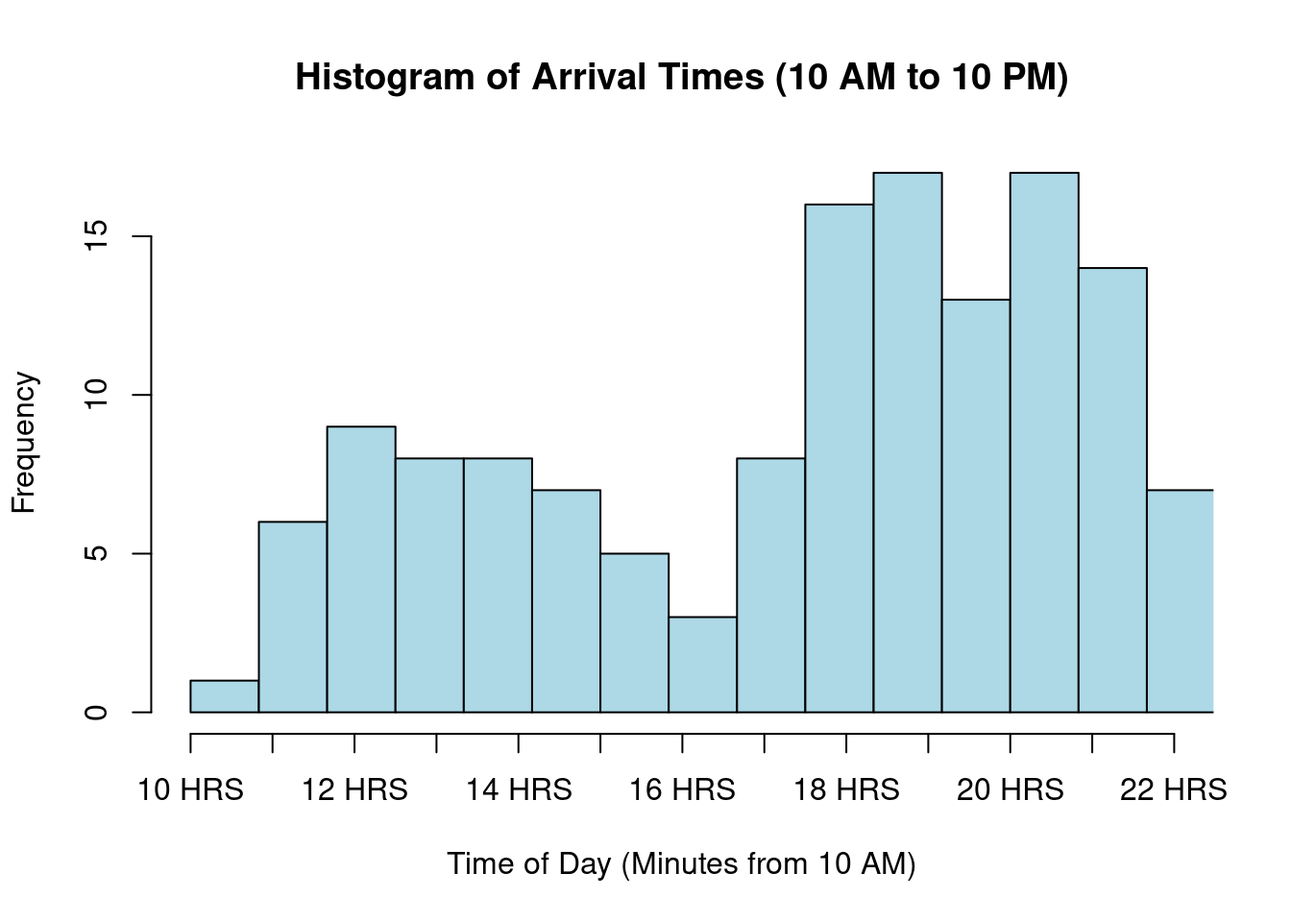
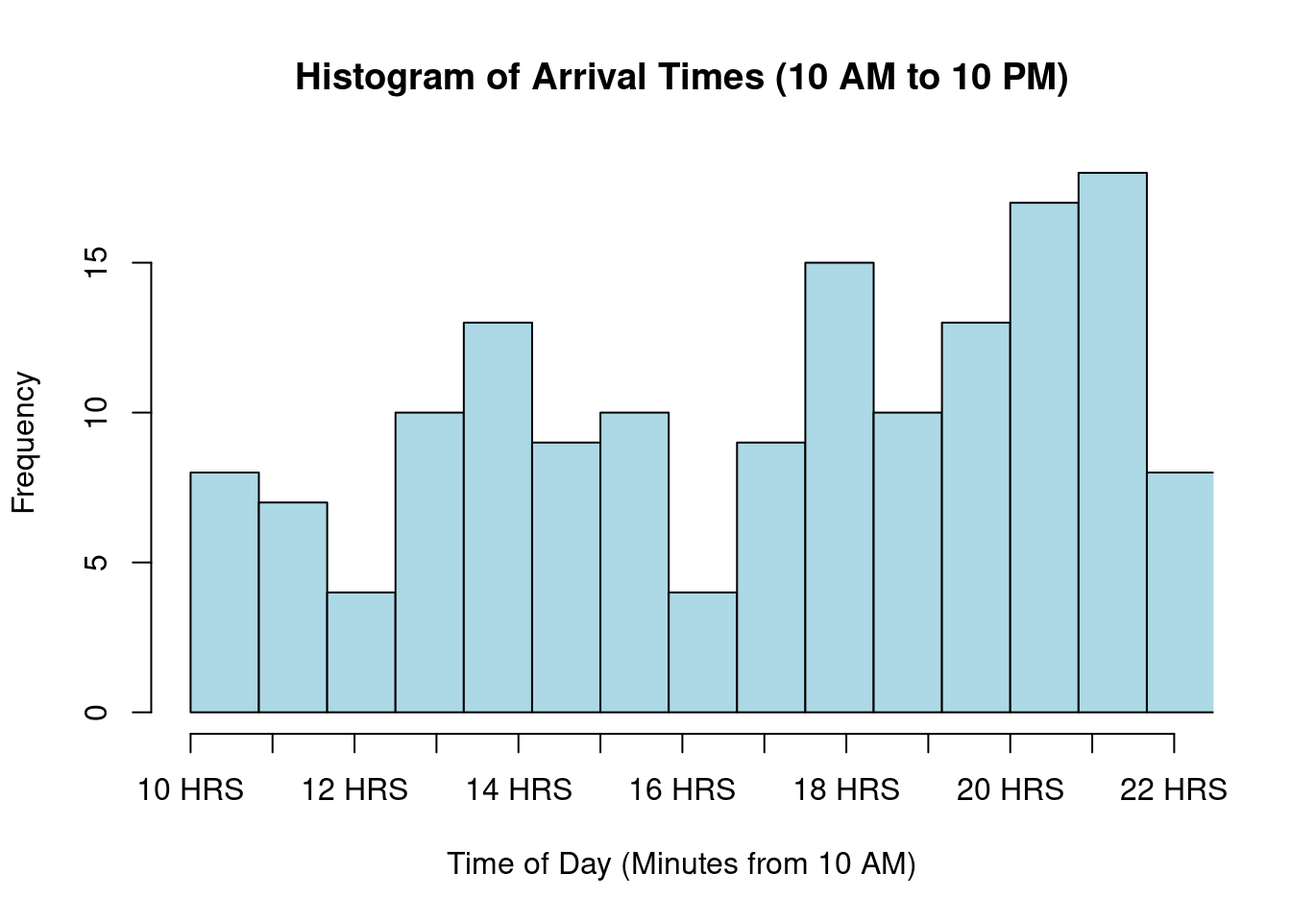
scenario 3 wait time

diff --git a/scenario3.html b/scenario3.html
@@ -81,11 +81,11 @@ pre > code.sourceCode > span > a:first-child::before { text-decoration: underlin
 
 
 <div class="cell">
-<div class="sourceCode cell-code" id="cb1"><pre class="sourceCode r code-with-copy"><code class="sourceCode r"><span id="cb1-1"><a href="#cb1-1" aria-hidden="true" tabindex="-1"></a><span class="fu">set.seed</span>(<span class="dv">123</span>)</span>
+<div class="sourceCode cell-code" id="cb1"><pre class="sourceCode r code-with-copy"><code class="sourceCode r"><span id="cb1-1"><a href="#cb1-1" aria-hidden="true" tabindex="-1"></a><span class="fu">set.seed</span>(<span class="dv">111</span>)</span>
 <span id="cb1-2"><a href="#cb1-2" aria-hidden="true" tabindex="-1"></a></span>
 <span id="cb1-3"><a href="#cb1-3" aria-hidden="true" tabindex="-1"></a>time_intervals <span class="ot">&lt;-</span> <span class="fu">c</span>(<span class="dv">0</span>, <span class="dv">120</span>, <span class="dv">300</span>, <span class="dv">420</span>, <span class="dv">720</span>)</span>
-<span id="cb1-4"><a href="#cb1-4" aria-hidden="true" tabindex="-1"></a>arrival_rates <span class="ot">&lt;-</span> <span class="fu">c</span>(<span class="dv">7</span>, <span class="dv">12</span>, <span class="dv">7</span>, <span class="dv">17</span>)</span>
-<span id="cb1-5"><a href="#cb1-5" aria-hidden="true" tabindex="-1"></a>service_rates <span class="ot">&lt;-</span> <span class="fu">c</span>(<span class="dv">3</span>, <span class="dv">3</span>, <span class="dv">3</span>, <span class="dv">3</span>, <span class="dv">3</span>, <span class="dv">3</span>, <span class="dv">3</span>, <span class="dv">5</span>, <span class="dv">5</span>, <span class="dv">5</span>, <span class="dv">5</span>, <span class="dv">5</span>)</span>
+<span id="cb1-4"><a href="#cb1-4" aria-hidden="true" tabindex="-1"></a>arrival_rates <span class="ot">&lt;-</span> <span class="fu">c</span>(<span class="dv">8</span>, <span class="dv">13</span>, <span class="dv">8</span>, <span class="dv">17</span>)</span>
+<span id="cb1-5"><a href="#cb1-5" aria-hidden="true" tabindex="-1"></a>service_rates <span class="ot">&lt;-</span> <span class="fu">c</span>(<span class="dv">4</span>, <span class="dv">4</span>, <span class="dv">4</span>, <span class="dv">4</span>, <span class="dv">4</span>, <span class="dv">4</span>, <span class="dv">4</span>, <span class="dv">6</span>, <span class="dv">6</span>, <span class="dv">6</span>, <span class="dv">6</span>, <span class="dv">6</span>)</span>
 <span id="cb1-6"><a href="#cb1-6" aria-hidden="true" tabindex="-1"></a>n_tables <span class="ot">&lt;-</span> <span class="dv">5</span></span>
 <span id="cb1-7"><a href="#cb1-7" aria-hidden="true" tabindex="-1"></a></span>
 <span id="cb1-8"><a href="#cb1-8" aria-hidden="true" tabindex="-1"></a><span class="co">#exponential rv</span></span>
@@ -142,24 +142,24 @@ pre > code.sourceCode > span > a:first-child::before { text-decoration: underlin
 <div class="sourceCode cell-code" id="cb3"><pre class="sourceCode r code-with-copy"><code class="sourceCode r"><span id="cb3-1"><a href="#cb3-1" aria-hidden="true" tabindex="-1"></a>current_time <span class="ot">&lt;-</span> <span class="dv">0</span></span>
 <span id="cb3-2"><a href="#cb3-2" aria-hidden="true" tabindex="-1"></a>downtime <span class="ot">&lt;-</span> <span class="dv">0</span></span>
 <span id="cb3-3"><a href="#cb3-3" aria-hidden="true" tabindex="-1"></a>queue <span class="ot">&lt;-</span> <span class="fu">c</span>()</span>
-<span id="cb3-4"><a href="#cb3-4" aria-hidden="true" tabindex="-1"></a>queue_lengths <span class="ot">&lt;-</span> <span class="fu">c</span>() </span>
+<span id="cb3-4"><a href="#cb3-4" aria-hidden="true" tabindex="-1"></a>queue_lengths <span class="ot">&lt;-</span> <span class="fu">c</span>()</span>
 <span id="cb3-5"><a href="#cb3-5" aria-hidden="true" tabindex="-1"></a>busy_tables <span class="ot">&lt;-</span> <span class="fu">rep</span>(<span class="dv">0</span>, n_tables)</span>
 <span id="cb3-6"><a href="#cb3-6" aria-hidden="true" tabindex="-1"></a>waiting_times <span class="ot">&lt;-</span> <span class="fu">c</span>()</span>
 <span id="cb3-7"><a href="#cb3-7" aria-hidden="true" tabindex="-1"></a></span>
-<span id="cb3-8"><a href="#cb3-8" aria-hidden="true" tabindex="-1"></a></span>
-<span id="cb3-9"><a href="#cb3-9" aria-hidden="true" tabindex="-1"></a><span class="cf">for</span> (i <span class="cf">in</span> <span class="fu">seq_along</span>(arrival_times)) {</span>
-<span id="cb3-10"><a href="#cb3-10" aria-hidden="true" tabindex="-1"></a>  next_arrival <span class="ot">&lt;-</span> arrival_times[i]</span>
-<span id="cb3-11"><a href="#cb3-11" aria-hidden="true" tabindex="-1"></a>  <span class="cf">if</span> (<span class="fu">all</span>(busy_tables <span class="sc">==</span> <span class="dv">0</span>) <span class="sc">&amp;&amp;</span> current_time <span class="sc">&lt;</span> next_arrival) {</span>
-<span id="cb3-12"><a href="#cb3-12" aria-hidden="true" tabindex="-1"></a>    downtime <span class="ot">&lt;-</span> downtime <span class="sc">+</span> (next_arrival <span class="sc">-</span> current_time)</span>
-<span id="cb3-13"><a href="#cb3-13" aria-hidden="true" tabindex="-1"></a>    <span class="fu">print</span>(<span class="fu">paste</span>(<span class="st">"Downtime:"</span>, downtime))</span>
-<span id="cb3-14"><a href="#cb3-14" aria-hidden="true" tabindex="-1"></a>  }</span>
-<span id="cb3-15"><a href="#cb3-15" aria-hidden="true" tabindex="-1"></a>  current_time <span class="ot">&lt;-</span> next_arrival</span>
-<span id="cb3-16"><a href="#cb3-16" aria-hidden="true" tabindex="-1"></a>  busy_tables[busy_tables <span class="sc">&lt;=</span> current_time] <span class="ot">&lt;-</span> <span class="dv">0</span></span>
-<span id="cb3-17"><a href="#cb3-17" aria-hidden="true" tabindex="-1"></a>  <span class="cf">if</span> (<span class="fu">any</span>(busy_tables <span class="sc">==</span> <span class="dv">0</span>)) {</span>
-<span id="cb3-18"><a href="#cb3-18" aria-hidden="true" tabindex="-1"></a>    next_table <span class="ot">&lt;-</span> <span class="fu">which</span>(busy_tables <span class="sc">==</span> <span class="dv">0</span>)[<span class="dv">1</span>]</span>
-<span id="cb3-19"><a href="#cb3-19" aria-hidden="true" tabindex="-1"></a>    service_time <span class="ot">&lt;-</span> service_times[i]</span>
-<span id="cb3-20"><a href="#cb3-20" aria-hidden="true" tabindex="-1"></a>    busy_tables[next_table] <span class="ot">&lt;-</span> current_time <span class="sc">+</span> service_time</span>
-<span id="cb3-21"><a href="#cb3-21" aria-hidden="true" tabindex="-1"></a>    <span class="fu">print</span>(<span class="fu">paste</span>(<span class="st">"Seating customer at table"</span>, next_table, <span class="st">"at time:"</span>, current_time, <span class="st">"for service time:"</span>, service_time))</span>
+<span id="cb3-8"><a href="#cb3-8" aria-hidden="true" tabindex="-1"></a><span class="cf">for</span> (i <span class="cf">in</span> <span class="fu">seq_along</span>(arrival_times)) {</span>
+<span id="cb3-9"><a href="#cb3-9" aria-hidden="true" tabindex="-1"></a>  next_arrival <span class="ot">&lt;-</span> arrival_times[i]</span>
+<span id="cb3-10"><a href="#cb3-10" aria-hidden="true" tabindex="-1"></a>  <span class="cf">if</span> (<span class="fu">all</span>(busy_tables <span class="sc">==</span> <span class="dv">0</span>) <span class="sc">&amp;&amp;</span> current_time <span class="sc">&lt;</span> next_arrival) {</span>
+<span id="cb3-11"><a href="#cb3-11" aria-hidden="true" tabindex="-1"></a>    downtime <span class="ot">&lt;-</span> downtime <span class="sc">+</span> (next_arrival <span class="sc">-</span> current_time)</span>
+<span id="cb3-12"><a href="#cb3-12" aria-hidden="true" tabindex="-1"></a>    <span class="fu">print</span>(<span class="fu">paste</span>(<span class="st">"Downtime:"</span>, downtime))</span>
+<span id="cb3-13"><a href="#cb3-13" aria-hidden="true" tabindex="-1"></a>  }</span>
+<span id="cb3-14"><a href="#cb3-14" aria-hidden="true" tabindex="-1"></a>  current_time <span class="ot">&lt;-</span> next_arrival</span>
+<span id="cb3-15"><a href="#cb3-15" aria-hidden="true" tabindex="-1"></a>  busy_tables[busy_tables <span class="sc">&lt;=</span> current_time] <span class="ot">&lt;-</span> <span class="dv">0</span></span>
+<span id="cb3-16"><a href="#cb3-16" aria-hidden="true" tabindex="-1"></a>  <span class="cf">if</span> (<span class="fu">any</span>(busy_tables <span class="sc">==</span> <span class="dv">0</span>)) {</span>
+<span id="cb3-17"><a href="#cb3-17" aria-hidden="true" tabindex="-1"></a>    next_table <span class="ot">&lt;-</span> <span class="fu">which</span>(busy_tables <span class="sc">==</span> <span class="dv">0</span>)[<span class="dv">1</span>]</span>
+<span id="cb3-18"><a href="#cb3-18" aria-hidden="true" tabindex="-1"></a>    service_time <span class="ot">&lt;-</span> service_times[i]</span>
+<span id="cb3-19"><a href="#cb3-19" aria-hidden="true" tabindex="-1"></a>    busy_tables[next_table] <span class="ot">&lt;-</span> current_time <span class="sc">+</span> service_time</span>
+<span id="cb3-20"><a href="#cb3-20" aria-hidden="true" tabindex="-1"></a>    <span class="fu">print</span>(<span class="fu">paste</span>(<span class="st">"Seating customer at table"</span>, next_table, <span class="st">"at time:"</span>, current_time, <span class="st">"for service time:"</span>, service_time))</span>
+<span id="cb3-21"><a href="#cb3-21" aria-hidden="true" tabindex="-1"></a>    waiting_times <span class="ot">&lt;-</span> <span class="fu">c</span>(waiting_times, <span class="dv">0</span>)</span>
 <span id="cb3-22"><a href="#cb3-22" aria-hidden="true" tabindex="-1"></a>  } <span class="cf">else</span> {</span>
 <span id="cb3-23"><a href="#cb3-23" aria-hidden="true" tabindex="-1"></a>    queue <span class="ot">&lt;-</span> <span class="fu">c</span>(queue, current_time)</span>
 <span id="cb3-24"><a href="#cb3-24" aria-hidden="true" tabindex="-1"></a>  }</span>
@@ -175,130 +175,127 @@ pre > code.sourceCode > span > a:first-child::before { text-decoration: underlin
 <span id="cb3-34"><a href="#cb3-34" aria-hidden="true" tabindex="-1"></a>  }</span>
 <span id="cb3-35"><a href="#cb3-35" aria-hidden="true" tabindex="-1"></a>}</span></code><button title="Copy to Clipboard" class="code-copy-button"><i class="bi"></i></button></pre></div>
 <div class="cell-output cell-output-stdout">
-<pre><code>[1] "Downtime: 5.46677992679179"
-[1] "Seating customer at table 1 at time: 5.46677992679179 for service time: 5.37756100699234"
-[1] "Seating customer at table 1 at time: 54.4000987429172 for service time: 29.2660112008524"
-[1] "Seating customer at table 2 at time: 54.7937682364136 for service time: 30.7478795706773"
-[1] "Seating customer at table 3 at time: 63.3726585656404 for service time: 0.0919825304299593"
-[1] "Seating customer at table 3 at time: 66.1722017358989 for service time: 22.1753093591871"
-[1] "Seating customer at table 4 at time: 68.7160082347691 for service time: 5.9994063526392"
-[1] "Seating customer at table 4 at time: 81.308476254344 for service time: 23.8400601400974"
-[1] "Seating customer at table 1 at time: 105.962088480592 for service time: 22.2985740742626"
-[1] "Seating customer at table 2 at time: 107.090285327286 for service time: 1.34751781821251"
-[1] "Seating customer at table 2 at time: 112.856074115261 for service time: 9.61337441578507"
-[1] "Seating customer at table 3 at time: 114.820001441985 for service time: 31.4090867804348"
-[1] "Seating customer at table 2 at time: 124.430463211611 for service time: 5.19892213866115"
-[1] "Seating customer at table 4 at time: 127.570716035552 for service time: 37.1384457481985"
-[1] "Seating customer at table 1 at time: 145.704004028812 for service time: 9.26439241540722"
-[1] "Seating customer at table 2 at time: 146.480456516147 for service time: 4.72071493044496"
-[1] "Seating customer at table 3 at time: 147.440054593608 for service time: 23.641988429332"
-[1] "Seating customer at table 1 at time: 158.953428450041 for service time: 1.19342743419111"
-[1] "Seating customer at table 1 at time: 161.692641363479 for service time: 8.06476882906"
-[1] "Seating customer at table 1 at time: 172.048752713017 for service time: 18.8587968043032"
-[1] "Seating customer at table 2 at time: 177.272581374273 for service time: 8.33161288872361"
-[1] "Seating customer at table 3 at time: 179.025729470886 for service time: 15.064368098134"
-[1] "Seating customer at table 2 at time: 186.392181166448 for service time: 3.77372776158154"
-[1] "Seating customer at table 1 at time: 194.47037873324 for service time: 17.5370774225824"
-[1] "Seating customer at table 2 at time: 194.618340446614 for service time: 3.80075641393609"
-[1] "Seating customer at table 2 at time: 206.003274796531 for service time: 19.5815641238334"
-[1] "Seating customer at table 1 at time: 217.931884448044 for service time: 6.4675165451105"
-[1] "Seating customer at table 1 at time: 226.945563680492 for service time: 26.4095510720255"
-[1] "Seating customer at table 2 at time: 235.291226478294 for service time: 6.36921296827495"
-[1] "Seating customer at table 3 at time: 238.027043840848 for service time: 32.1013459173923"
-[1] "Seating customer at table 2 at time: 244.326950116083 for service time: 2.91468232870102"
-[1] "Seating customer at table 4 at time: 244.704613108188 for service time: 36.0625863713036"
-[1] "Seating customer at table 2 at time: 247.535484270193 for service time: 0.601189089938998"
-[1] "Seating customer at table 1 at time: 256.522716754116 for service time: 26.0688109873774"
-[1] "Seating customer at table 2 at time: 263.184135183692 for service time: 3.99584489478282"
-[1] "Seating customer at table 2 at time: 280.117076891474 for service time: 35.0291248394136"
-[1] "Seating customer at table 3 at time: 282.413828121498 for service time: 35.2733666432982"
-[1] "Seating customer at table 1 at time: 291.810656846501 for service time: 16.860871565284"
-[1] "Seating customer at table 4 at time: 293.34436185658 for service time: 6.97505552321672"
-[1] "Seating customer at table 5 at time: 298.968559792265 for service time: 65.9564959969292"
-[1] "Seating customer at table 4 at time: 305.499740000814 for service time: 8.03412349894643"
-[1] "Seating customer at table 1 at time: 314.627911197022 for service time: 22.0140346876326"
-[1] "Seating customer at table 2 at time: 315.303798029199 for service time: 26.5784634455087"
-[1] "Seating customer at table 3 at time: 324.783766753972 for service time: 12.83805295825"
-[1] "Seating customer at table 4 at time: 331.916716843843 for service time: 3.91667430882966"
-[1] "Seating customer at table 1 at time: 353.064008904621 for service time: 9.135777130723"
-[1] "Seating customer at table 1 at time: 367.313758051023 for service time: 7.45500328019261"
-[1] "Seating customer at table 1 at time: 395.870981477201 for service time: 69.2718978192577"
-[1] "Seating customer at table 2 at time: 402.939325841144 for service time: 25.4805543824079"
-[1] "Seating customer at table 3 at time: 420.18743199762 for service time: 12.9778218081841"
-[1] "Seating customer at table 4 at time: 423.140133549459 for service time: 3.56350993060615"
-[1] "Seating customer at table 2 at time: 438.216171464883 for service time: 1.00992881320417"
-[1] "Seating customer at table 2 at time: 443.007349600084 for service time: 35.4408110068683"
-[1] "Seating customer at table 3 at time: 447.313199965283 for service time: 23.6190270547917"
-[1] "Seating customer at table 4 at time: 448.078496013768 for service time: 7.96626150794327"
-[1] "Seating customer at table 5 at time: 448.452198277228 for service time: 19.3127057244232"
-[1] "Seating customer at table 4 at time: 459.208707469516 for service time: 3.89562340825796"
-[1] "Seating customer at table 4 at time: 464.128407281823 for service time: 11.2875140118028"
-[1] "Seating customer at table 1 at time: 466.260690246709 for service time: 5.38930431380868"
-[1] "Seating customer at table 1 at time: 472.515795081854 for service time: 15.4668777505483"
-[1] "Seating customer at table 4 at time: 476.307335780002 for service time: 18.8607130505256"
-[1] "Seating customer at table 2 at time: 485.930289379321 for service time: 0.745689572766423"
-[1] "Seating customer at table 1 at time: 489.34853461571 for service time: 20.7693701450875"
-[1] "Seating customer at table 4 at time: 502.315093372017 for service time: 0.394677462056279"
-[1] "Seating customer at table 1 at time: 510.368669992313 for service time: 1.83645651116967"
-[1] "Seating customer at table 1 at time: 512.316003260203 for service time: 12.4616640503134"
-[1] "Seating customer at table 2 at time: 513.510660622269 for service time: 12.9893484743859"
-[1] "Seating customer at table 3 at time: 515.946185127832 for service time: 44.9674936582275"
-[1] "Seating customer at table 4 at time: 516.111972746439 for service time: 0.067513095214963"
-[1] "Seating customer at table 4 at time: 519.847062095068 for service time: 0.0524084475545744"
-[1] "Seating customer at table 4 at time: 523.05494167842 for service time: 20.3998099331906"
-[1] "Seating customer at table 1 at time: 525.53937277291 for service time: 6.48801778256893"
-[1] "Seating customer at table 2 at time: 530.846659750678 for service time: 5.64442333951592"
-[1] "Seating customer at table 1 at time: 532.338832765818 for service time: 0.618712988146853"
-[1] "Seating customer at table 1 at time: 533.944961316884 for service time: 6.20623606815934"
-[1] "Seating customer at table 5 at time: 535.190891339444 for service time: 17.7977161099365"
-[1] "Seating customer at table 1 at time: 541.353084524162 for service time: 15.3538267085876"
-[1] "Seating customer at table 2 at time: 542.842485783622 for service time: 17.1176180872877"
-[1] "Seating customer at table 4 at time: 545.294033903629 for service time: 17.0899244888401"
-[1] "Seating customer at table 5 at time: 554.554902417585 for service time: 6.27365352230554"
-[1] "Seating customer at table 1 at time: 560.033712470904 for service time: 0.823806777268531"
-[1] "Seating customer at table 1 at time: 562.594972229563 for service time: 6.82980639673769"
-[1] "Seating customer at table 5 at time: 564.87071915064 for service time: 52.390931230739"
-[1] "Seating customer at table 1 at time: 573.451637970284 for service time: 5.50537564605474"
-[1] "Seating customer at table 3 at time: 576.340717733838 for service time: 3.12316446751356"
-[1] "Seating customer at table 1 at time: 584.785396819934 for service time: 8.38610093962368"
-[1] "Seating customer at table 1 at time: 595.645005935803 for service time: 11.5582606620623"
-[1] "Seating customer at table 2 at time: 599.996687779203 for service time: 8.77775465851469"
-[1] "Seating customer at table 3 at time: 602.620494696312 for service time: 13.3473548474337"
-[1] "Seating customer at table 4 at time: 603.831300982274 for service time: 7.2674945499748"
-[1] "Seating customer at table 1 at time: 608.766339467838 for service time: 19.5799059613168"
-[1] "Seating customer at table 2 at time: 614.368043798022 for service time: 1.22311357905907"
-[1] "Seating customer at table 2 at time: 615.930577511899 for service time: 4.89580947160721"
-[1] "Seating customer at table 3 at time: 617.027438390069 for service time: 32.8841826379077"
-[1] "Seating customer at table 4 at time: 617.951534902677 for service time: 34.2225294987064"
-[1] "Seating customer at table 5 at time: 619.534558388405 for service time: 0.290080465490181"
-[1] "Seating customer at table 5 at time: 620.416676234454 for service time: 5.7071376722306"
-[1] "Seating customer at table 2 at time: 621.899727783166 for service time: 8.01730342023075"
-[1] "Seating customer at table 5 at time: 627.002130453475 for service time: 11.4027636269654"
-[1] "Seating customer at table 1 at time: 633.054720405489 for service time: 13.6533000319572"
-[1] "Seating customer at table 2 at time: 636.178882028908 for service time: 0.993181039061871"
-[1] "Seating customer at table 2 at time: 639.640561658889 for service time: 19.7148924587187"
-[1] "Seating customer at table 5 at time: 641.123321377672 for service time: 1.90680497680329"
-[1] "Seating customer at table 5 at time: 646.342547591776 for service time: 17.7433912520459"
-[1] "Seating customer at table 1 at time: 654.688290394843 for service time: 1.35638086728289"
-[1] "Seating customer at table 3 at time: 655.884465510026 for service time: 2.68950804438593"
-[1] "Seating customer at table 1 at time: 656.45875020884 for service time: 8.04612767882645"
-[1] "Seating customer at table 4 at time: 658.302696333267 for service time: 18.4419685219577"
-[1] "Seating customer at table 2 at time: 663.01930591464 for service time: 23.1458632339886"
-[1] "Seating customer at table 3 at time: 663.716852855869 for service time: 2.56286640410651"
-[1] "Seating customer at table 5 at time: 664.392011663876 for service time: 6.81471548974514"
-[1] "Seating customer at table 1 at time: 666.541638043709 for service time: 23.1998856057575"
-[1] "Seating customer at table 3 at time: 672.818795666099 for service time: 43.2329743553825"
-[1] "Seating customer at table 4 at time: 685.940718236379 for service time: 15.8349437485065"
-[1] "Seating customer at table 2 at time: 687.105066636577 for service time: 11.1691696189935"
-[1] "Seating customer at table 5 at time: 687.418235144578 for service time: 3.7854823484389"
-[1] "Seating customer at table 1 at time: 694.33145607356 for service time: 11.139534137639"
-[1] "Seating customer at table 2 at time: 700.589940981008 for service time: 3.10010959102997"
-[1] "Seating customer at table 2 at time: 704.318082011305 for service time: 6.46065386943519"
-[1] "Seating customer at table 1 at time: 706.227371566929 for service time: 0.904252393171191"
-[1] "Seating customer at table 4 at time: 706.342148249969 for service time: 1.54125247519959"
-[1] "Seating customer at table 1 at time: 713.94657521043 for service time: 31.1860818326251"
-[1] "Seating customer at table 2 at time: 715.265761041082 for service time: 24.8422919278195"
-[1] "Seating customer at table 4 at time: 715.487093995325 for service time: 2.46457220951901"</code></pre>
+<pre><code>[1] "Downtime: 1.27894140779972"
+[1] "Seating customer at table 1 at time: 1.27894140779972 for service time: 4.99000896932557"
+[1] "Seating customer at table 2 at time: 5.70574239827693 for service time: 11.5611630297139"
+[1] "Seating customer at table 1 at time: 8.05693720467389 for service time: 1.91609330708161"
+[1] "Seating customer at table 1 at time: 11.2417823821306 for service time: 5.32095698862204"
+[1] "Seating customer at table 1 at time: 18.744301898405 for service time: 53.0929295247327"
+[1] "Seating customer at table 2 at time: 20.5732424464077 for service time: 11.7978875425862"
+[1] "Seating customer at table 2 at time: 44.4506404269487 for service time: 7.34908571932465"
+[1] "Seating customer at table 3 at time: 45.3195859026164 for service time: 7.3618605080992"
+[1] "Seating customer at table 4 at time: 50.2004790958017 for service time: 25.8023301778797"
+[1] "Seating customer at table 2 at time: 51.8592739664018 for service time: 1.78684489935833"
+[1] "Seating customer at table 3 at time: 53.5713316127658 for service time: 46.5967430521674"
+[1] "Seating customer at table 2 at time: 61.790859606117 for service time: 28.5764023649011"
+[1] "Seating customer at table 5 at time: 63.8754290621728 for service time: 7.84265496768057"
+[1] "Seating customer at table 1 at time: 115.984115190804 for service time: 0.838023440546181"
+[1] "Seating customer at table 1 at time: 125.898896539584 for service time: 34.402396634911"
+[1] "Seating customer at table 2 at time: 130.54736324586 for service time: 21.9680363222815"
+[1] "Seating customer at table 3 at time: 140.936786709353 for service time: 7.54442345914747"
+[1] "Seating customer at table 1 at time: 170.994629943743 for service time: 32.0763921768742"
+[1] "Seating customer at table 2 at time: 171.394876465201 for service time: 2.43470409186557"
+[1] "Seating customer at table 2 at time: 177.964810947888 for service time: 23.3128203564427"
+[1] "Seating customer at table 3 at time: 179.128496171907 for service time: 27.0416701944981"
+[1] "Seating customer at table 4 at time: 179.939042469487 for service time: 2.11209669476375"
+[1] "Seating customer at table 5 at time: 181.587242474779 for service time: 24.4442041485075"
+[1] "Seating customer at table 4 at time: 184.754166975617 for service time: 17.9602010293507"
+[1] "Seating customer at table 1 at time: 203.842637334019 for service time: 14.4208915990995"
+[1] "Seating customer at table 3 at time: 211.781974802725 for service time: 2.86719965049997"
+[1] "Seating customer at table 1 at time: 218.689206582494 for service time: 11.3737117946452"
+[1] "Seating customer at table 3 at time: 223.543596784584 for service time: 7.52846368588507"
+[1] "Seating customer at table 4 at time: 225.308049763553 for service time: 34.6234531216046"
+[1] "Seating customer at table 5 at time: 227.265714327805 for service time: 7.91566439459352"
+[1] "Seating customer at table 1 at time: 233.039203262888 for service time: 4.59619092056528"
+[1] "Seating customer at table 2 at time: 234.424371812493 for service time: 0.875416717548305"
+[1] "Seating customer at table 2 at time: 235.415614508092 for service time: 1.61187532274381"
+[1] "Seating customer at table 3 at time: 235.585327888839 for service time: 3.43397245975211"
+[1] "Seating customer at table 2 at time: 237.581301857717 for service time: 35.5592003538927"
+[1] "Seating customer at table 1 at time: 248.41386354994 for service time: 2.06347739199293"
+[1] "Seating customer at table 1 at time: 250.529669984244 for service time: 29.2899150854412"
+[1] "Seating customer at table 3 at time: 261.118671717122 for service time: 5.54471567777009"
+[1] "Seating customer at table 4 at time: 261.737025459297 for service time: 1.20579633163288"
+[1] "Seating customer at table 5 at time: 262.879615779966 for service time: 2.20451671862975"
+[1] "Seating customer at table 4 at time: 264.918164410628 for service time: 2.40702966740006"
+[1] "Seating customer at table 2 at time: 274.065948813222 for service time: 0.57334143693932"
+[1] "Seating customer at table 1 at time: 287.133448426612 for service time: 32.5353821254989"
+[1] "Seating customer at table 2 at time: 294.154946208 for service time: 13.7606545065735"
+[1] "Seating customer at table 3 at time: 299.408999048173 for service time: 67.7519227340262"
+[1] "Seating customer at table 4 at time: 300.111036077142 for service time: 28.5272745216701"
+[1] "Seating customer at table 5 at time: 301.407097801566 for service time: 8.16001716535538"
+[1] "Seating customer at table 2 at time: 311.58942785114 for service time: 5.00886627472937"
+[1] "Seating customer at table 1 at time: 320.791304754093 for service time: 18.9060795440556"
+[1] "Seating customer at table 5 at time: 327.831550128758 for service time: 11.7727272066506"
+[1] "Seating customer at table 4 at time: 331.106707770377 for service time: 12.6865127071025"
+[1] "Seating customer at table 1 at time: 354.451780160889 for service time: 7.1275767730549"
+[1] "Seating customer at table 5 at time: 356.009285654873 for service time: 1.93290903232992"
+[1] "Seating customer at table 1 at time: 379.833447318524 for service time: 11.5940851851584"
+[1] "Seating customer at table 1 at time: 396.664821021259 for service time: 2.4748663432071"
+[1] "Seating customer at table 1 at time: 405.310073532164 for service time: 9.2954975925386"
+[1] "Seating customer at table 2 at time: 410.313849784434 for service time: 26.0807719098765"
+[1] "Seating customer at table 1 at time: 423.63551331684 for service time: 0.88959150376599"
+[1] "Seating customer at table 1 at time: 431.648712912574 for service time: 6.11083668190986"
+[1] "Seating customer at table 3 at time: 433.936981838197 for service time: 9.44566878208868"
+[1] "Seating customer at table 1 at time: 443.754278873093 for service time: 6.16353428922594"
+[1] "Seating customer at table 2 at time: 445.984204094857 for service time: 7.14249451712308"
+[1] "Seating customer at table 3 at time: 447.114304807037 for service time: 5.78041905071586"
+[1] "Seating customer at table 4 at time: 448.53724595625 for service time: 7.06320415208948"
+[1] "Seating customer at table 1 at time: 451.360365380533 for service time: 2.28182554710656"
+[1] "Seating customer at table 2 at time: 453.595709572546 for service time: 1.61187607795"
+[1] "Seating customer at table 1 at time: 455.955654527061 for service time: 0.0328358133051269"
+[1] "Seating customer at table 1 at time: 459.034913945943 for service time: 9.25055621923733"
+[1] "Seating customer at table 2 at time: 459.329420076683 for service time: 4.6517775096672"
+[1] "Seating customer at table 3 at time: 460.864676283672 for service time: 22.5849385889872"
+[1] "Seating customer at table 1 at time: 469.315477930941 for service time: 2.65867650043219"
+[1] "Seating customer at table 1 at time: 472.885418152437 for service time: 2.82383863348514"
+[1] "Seating customer at table 1 at time: 479.526883112267 for service time: 11.1716833240808"
+[1] "Seating customer at table 2 at time: 483.019201252609 for service time: 9.65629785279644"
+[1] "Seating customer at table 3 at time: 484.696431602351 for service time: 14.8276489592137"
+[1] "Seating customer at table 1 at time: 493.83444509469 for service time: 6.55286858323961"
+[1] "Seating customer at table 2 at time: 495.397085817531 for service time: 8.80801386157882"
+[1] "Seating customer at table 4 at time: 499.153884295374 for service time: 6.35277015157044"
+[1] "Seating customer at table 5 at time: 499.264166532084 for service time: 3.14251281423027"
+[1] "Seating customer at table 3 at time: 500.108601646498 for service time: 3.03093639202416"
+[1] "Seating customer at table 1 at time: 508.121277512982 for service time: 3.98288077209145"
+[1] "Seating customer at table 1 at time: 525.289622442797 for service time: 1.00819880608469"
+[1] "Seating customer at table 2 at time: 525.447993194684 for service time: 6.34244672488421"
+[1] "Seating customer at table 1 at time: 532.439939752221 for service time: 7.72982077631068"
+[1] "Seating customer at table 2 at time: 536.14492891822 for service time: 1.30489839071995"
+[1] "Seating customer at table 2 at time: 539.426844315603 for service time: 1.33092812728137"
+[1] "Seating customer at table 3 at time: 540.101362885907 for service time: 6.08273030724376"
+[1] "Seating customer at table 1 at time: 544.298044340685 for service time: 7.14246105360699"
+[1] "Seating customer at table 1 at time: 554.512018435635 for service time: 1.38875148724765"
+[1] "Seating customer at table 1 at time: 556.631492315792 for service time: 8.76914294394565"
+[1] "Seating customer at table 2 at time: 558.253388064913 for service time: 10.7366318903388"
+[1] "Seating customer at table 3 at time: 563.575991154648 for service time: 10.5517501566083"
+[1] "Seating customer at table 1 at time: 573.329695388675 for service time: 2.16839378233999"
+[1] "Seating customer at table 2 at time: 574.385886294767 for service time: 1.33105030748993"
+[1] "Seating customer at table 1 at time: 584.673814550042 for service time: 27.1577257464144"
+[1] "Seating customer at table 2 at time: 588.977360730059 for service time: 9.95265422346902"
+[1] "Seating customer at table 3 at time: 590.849325251766 for service time: 7.67972381485285"
+[1] "Seating customer at table 4 at time: 592.799118049443 for service time: 0.785282379947603"
+[1] "Seating customer at table 4 at time: 593.701772396453 for service time: 0.668709171004593"
+[1] "Seating customer at table 5 at time: 593.995604971424 for service time: 6.33270762395114"
+[1] "Seating customer at table 2 at time: 604.758997731842 for service time: 8.9941723454268"
+[1] "Seating customer at table 4 at time: 605.135852149688 for service time: 24.6175244624231"
+[1] "Seating customer at table 5 at time: 608.946346845478 for service time: 26.4617202232096"
+[1] "Seating customer at table 1 at time: 612.018696153536 for service time: 8.75247634343408"
+[1] "Seating customer at table 2 at time: 615.276328129694 for service time: 9.79992653819334"
+[1] "Seating customer at table 1 at time: 624.058593744412 for service time: 4.17881041299552"
+[1] "Seating customer at table 2 at time: 625.435805115849 for service time: 5.10650013573468"
+[1] "Seating customer at table 1 at time: 640.431802701205 for service time: 5.15621345490217"
+[1] "Seating customer at table 1 at time: 651.284320936538 for service time: 8.81122489417803"
+[1] "Seating customer at table 5 at time: 654.433019114658 for service time: 15.7164195061651"
+[1] "Seating customer at table 1 at time: 665.649100025184 for service time: 17.9505378372016"
+[1] "Seating customer at table 3 at time: 665.911567797884 for service time: 6.38695605564862"
+[1] "Seating customer at table 4 at time: 667.344660270028 for service time: 11.2020430989088"
+[1] "Seating customer at table 5 at time: 670.806034519337 for service time: 18.7390661231222"
+[1] "Seating customer at table 3 at time: 674.108187952079 for service time: 14.534786659384"
+[1] "Seating customer at table 4 at time: 681.191911180504 for service time: 12.7137394897164"
+[1] "Seating customer at table 1 at time: 684.364640135318 for service time: 38.5387048663056"
+[1] "Seating customer at table 3 at time: 691.171301370487 for service time: 0.820740358904004"
+[1] "Seating customer at table 3 at time: 695.991593138315 for service time: 12.2348552193017"
+[1] "Seating customer at table 3 at time: 709.18393899221 for service time: 26.6934985841129"</code></pre>
 </div>
 <div class="sourceCode cell-code" id="cb5"><pre class="sourceCode r code-with-copy"><code class="sourceCode r"><span id="cb5-1"><a href="#cb5-1" aria-hidden="true" tabindex="-1"></a><span class="fu">plot</span>(queue_lengths, <span class="at">type =</span> <span class="st">"l"</span>, <span class="at">xlab =</span> <span class="st">"Time"</span>, <span class="at">ylab =</span> <span class="st">"Queue Length"</span>, </span>
 <span id="cb5-2"><a href="#cb5-2" aria-hidden="true" tabindex="-1"></a>     <span class="at">main =</span> <span class="st">"Queue Length Over Time"</span>, <span class="at">col =</span> <span class="st">"blue"</span>, <span class="at">lwd =</span> <span class="dv">2</span>, </span>
@@ -315,13 +312,13 @@ pre > code.sourceCode > span > a:first-child::before { text-decoration: underlin
 </div>
 <div class="sourceCode cell-code" id="cb6"><pre class="sourceCode r code-with-copy"><code class="sourceCode r"><span id="cb6-1"><a href="#cb6-1" aria-hidden="true" tabindex="-1"></a>avg_wait_time <span class="ot">&lt;-</span> <span class="cf">if</span> (<span class="fu">length</span>(waiting_times) <span class="sc">&gt;</span> <span class="dv">0</span>) <span class="fu">mean</span>(waiting_times) <span class="cf">else</span> <span class="dv">0</span></span>
 <span id="cb6-2"><a href="#cb6-2" aria-hidden="true" tabindex="-1"></a></span>
-<span id="cb6-3"><a href="#cb6-3" aria-hidden="true" tabindex="-1"></a><span class="fu">cat</span>(<span class="st">"Average Waiting Time:"</span>, avg_wait_time, <span class="st">"minutes</span><span class="sc">\n</span><span class="st">"</span>)</span></code><button title="Copy to Clipboard" class="code-copy-button"><i class="bi"></i></button></pre></div>
+<span id="cb6-3"><a href="#cb6-3" aria-hidden="true" tabindex="-1"></a><span class="fu">cat</span>(<span class="st">"Average Waiting Time Across All Customers:"</span>, avg_wait_time, <span class="st">"minutes</span><span class="sc">\n</span><span class="st">"</span>)</span></code><button title="Copy to Clipboard" class="code-copy-button"><i class="bi"></i></button></pre></div>
 <div class="cell-output cell-output-stdout">
-<pre><code>Average Waiting Time: 16.10049 minutes</code></pre>
+<pre><code>Average Waiting Time Across All Customers: 3.022725 minutes</code></pre>
 </div>
 <div class="sourceCode cell-code" id="cb8"><pre class="sourceCode r code-with-copy"><code class="sourceCode r"><span id="cb8-1"><a href="#cb8-1" aria-hidden="true" tabindex="-1"></a><span class="fu">cat</span>(<span class="st">"Total Downtime:"</span>, downtime, <span class="st">"minutes</span><span class="sc">\n</span><span class="st">"</span>)</span></code><button title="Copy to Clipboard" class="code-copy-button"><i class="bi"></i></button></pre></div>
 <div class="cell-output cell-output-stdout">
-<pre><code>Total Downtime: 5.46678 minutes</code></pre>
+<pre><code>Total Downtime: 1.278941 minutes</code></pre>
 </div>
 </div>
 
